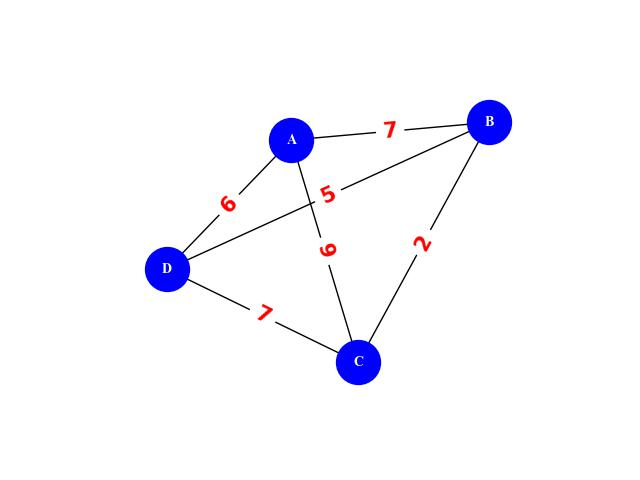
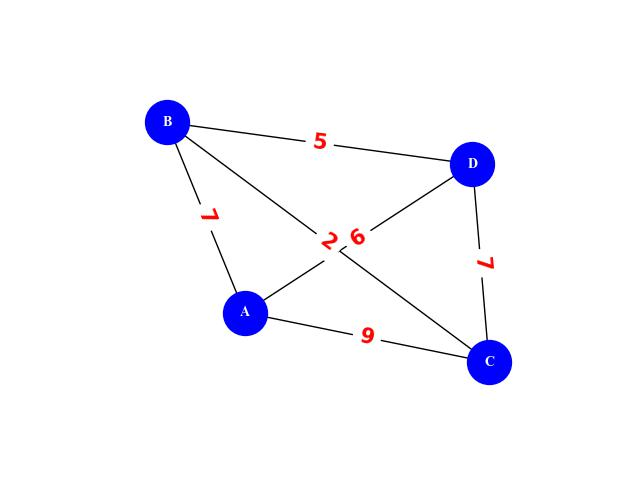
DFS added
Depth-First Search completed

diff --git a/SearchAlgorithms.py b/SearchAlgorithms.py
@@ -1,4 +1,7 @@
+from collections import deque
 from queue import PriorityQueue
+
+import networkx as nx
 
 
 def a_star_search(initial_state, goal_state, graph):
@@ -21,6 +24,31 @@ def a_star_search(initial_state, goal_state, graph):
                 queue.put((f, new_path))  # new path to the queue
 
     return None  # return failure
+
+
+def depth_first_search(initial_state, graph):
+    stack = deque([[initial_state]])
+
+    while stack:
+        path = stack.pop()
+        current_node = path[-1]
+
+        if len(path) > 1 and current_node == initial_state and len(set(path)) == len(graph.nodes()):
+            return path
+
+        neighbors = list(nx.neighbors(graph, current_node))
+
+        for neighbor in neighbors:
+            if neighbor not in path or (neighbor == initial_state and len(set(path)) == len(graph.nodes())):
+                new_path = list(path) + [neighbor]
+                stack.append(new_path)
+
+    return None
+
+
+def is_dfs_goal_state(graph, tour):
+    nodes = set(graph.nodes())
+    return nodes <= set(tour) and tour[0] == tour[-1]
 
 
 def successors(state, graph):

diff --git a/Main.py b/Main.py
@@ -16,10 +16,22 @@ if __name__ == '__main__':
         path = a_star_search(node1_coord, node2_coord, main_graph)
         if path:
             num_hops = len(path) - 1
-            print(f"{node1_id} -> {node2_id}: Num of hops = {num_hops}, Path found: {path}")
+            print(f"{node1_id} -> {node2_id}: Distance = {num_hops}, Path found: {path}")
             shortest_path.append((node1_id, node2_id, num_hops))
         else:
             print(f"{node1_id} -> {node2_id}: No path found")
             shortest_path.append((node1_id, node2_id, None))
 
     node_graph = init_node_graph(shortest_path)
+
+    if 'A' not in nodes:
+        raise ValueError("Node 'A' not found in the list of nodes.")
+
+    initial_state = 'A'
+
+    dfs_tour = depth_first_search(initial_state, node_graph)
+    print("Tour sequence using Depth-First Search:")
+    print(' -> '.join(dfs_tour))
+
+
+
